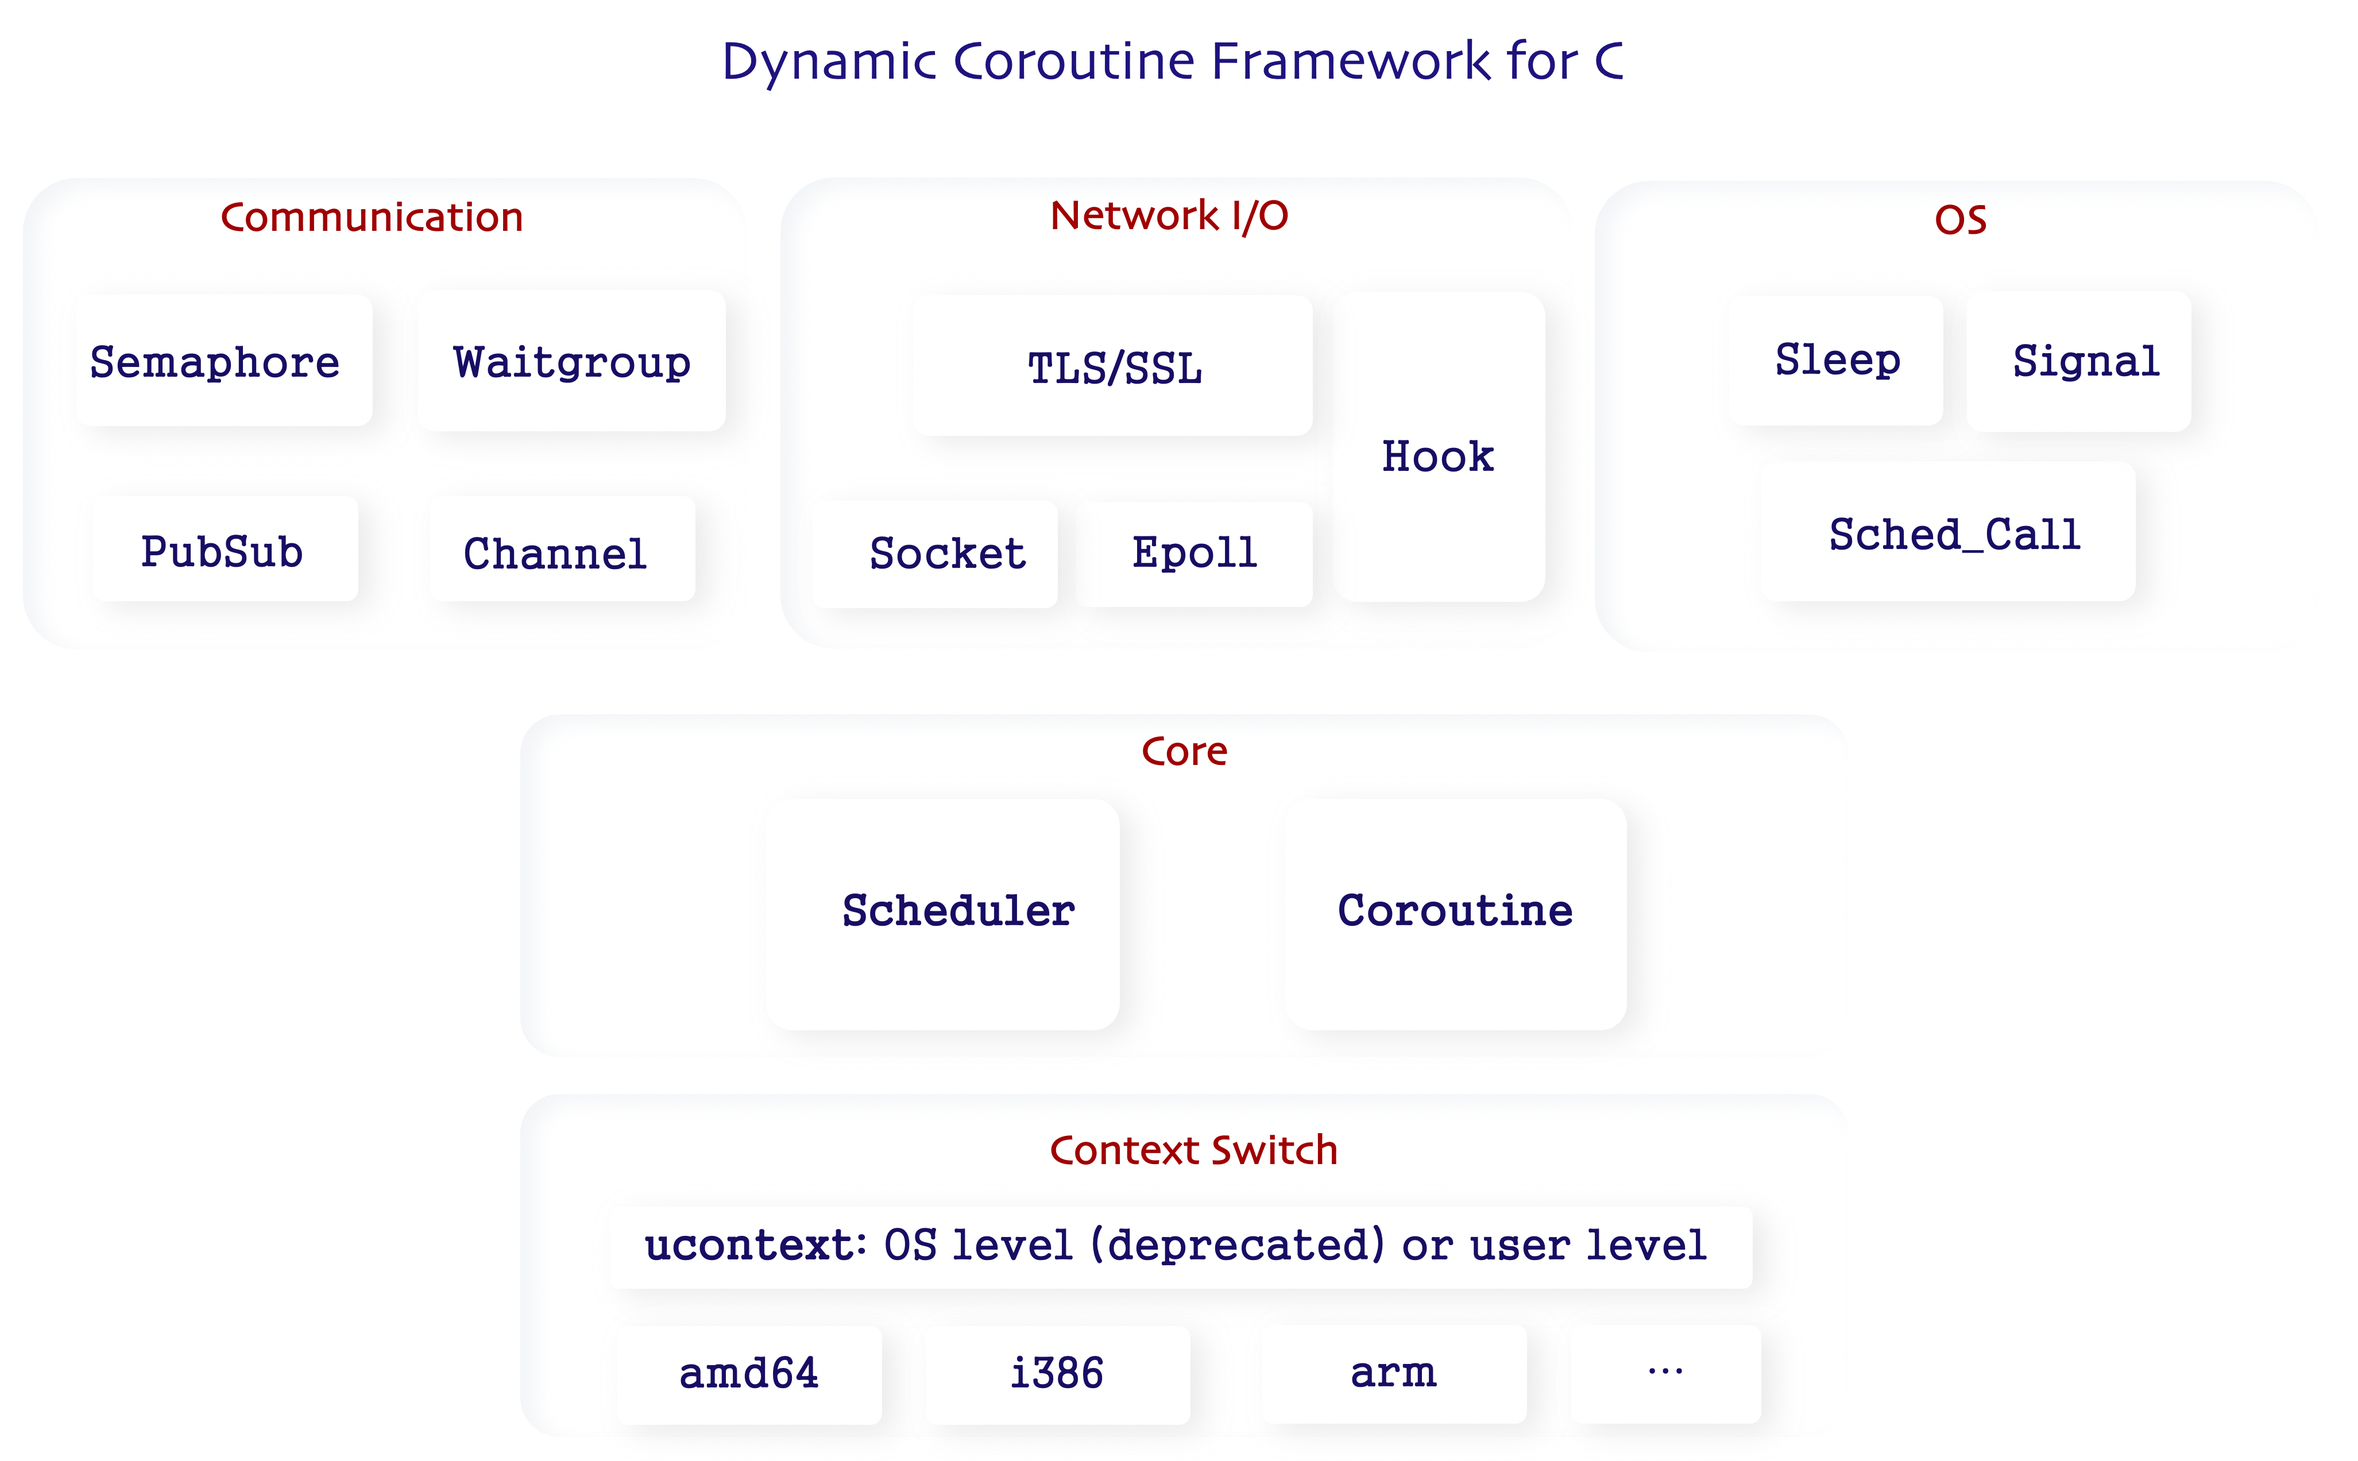
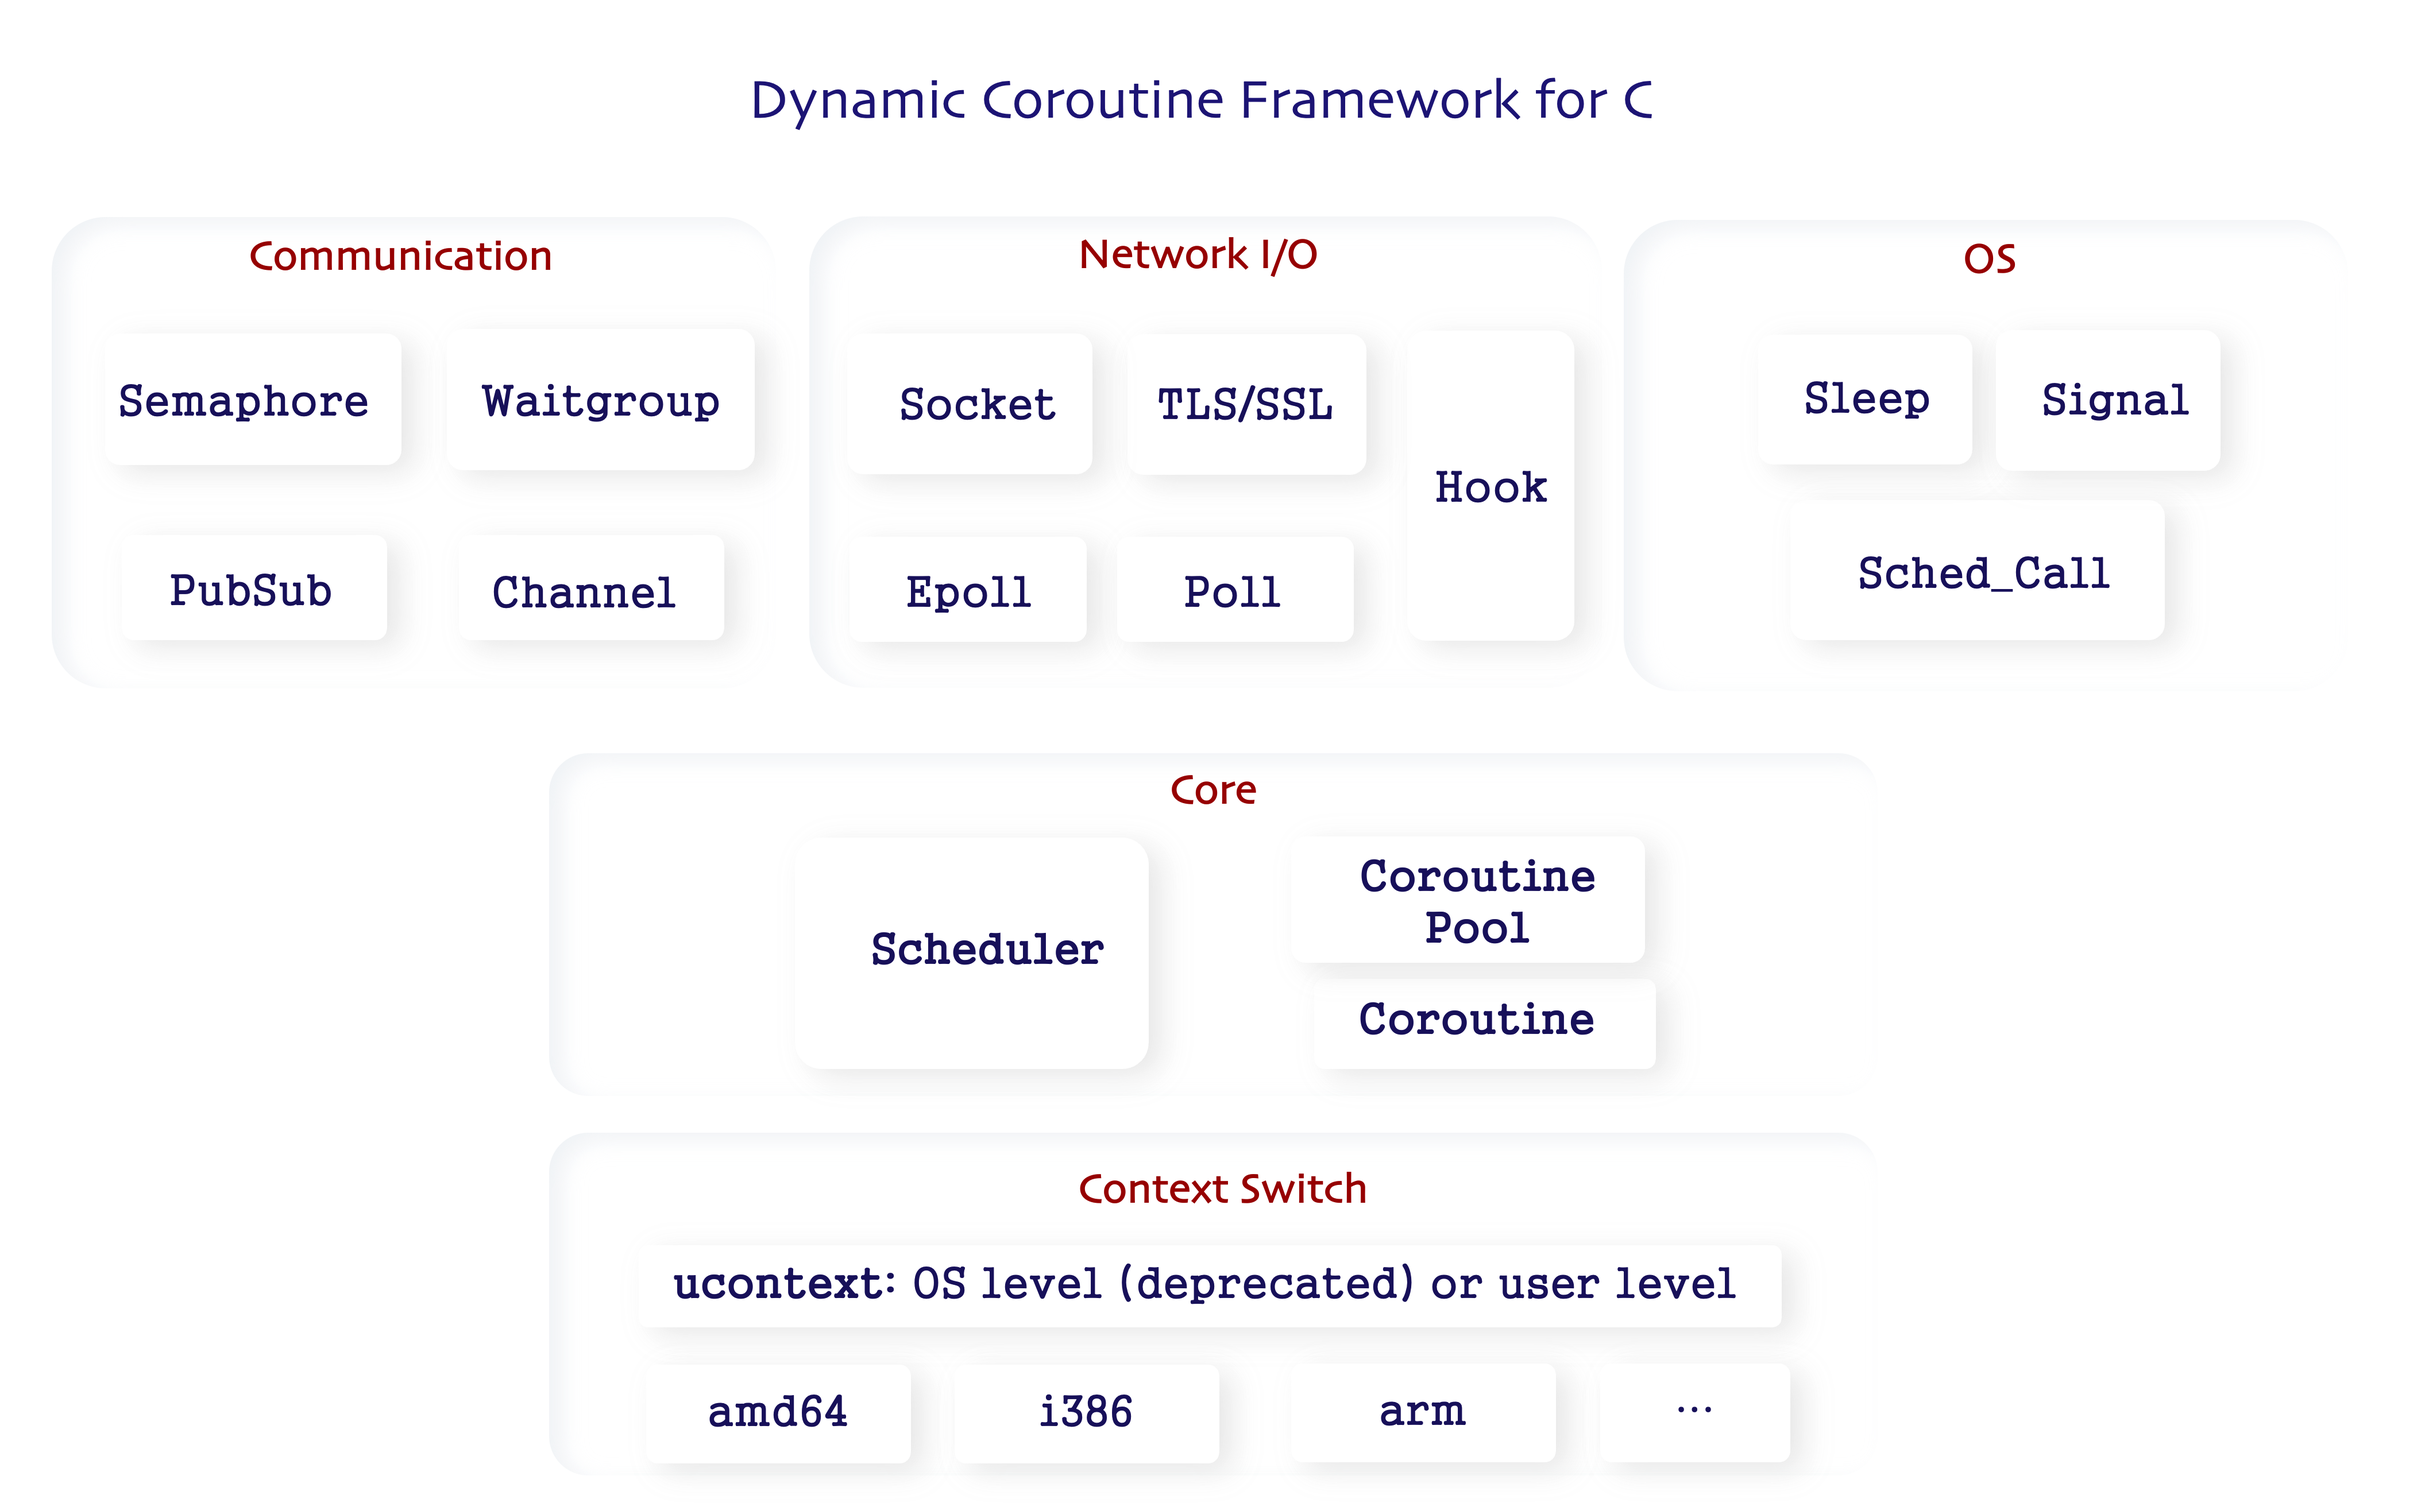
update readme & arch figure

diff --git a/src/dyco_coroutine.h b/src/dyco_coroutine.h
@@ -1,6 +1,6 @@
 #ifndef __COROUTINE_H__
 #define __COROUTINE_H__
-#define DYCO_VERSION		"v1.0.0"
+#define DYCO_VERSION		"v1.1.0"
 
 // ------ 1. Included Headers
 #define _GNU_SOURCE
@@ -19,8 +19,6 @@
 #include <pthread.h>
 #include <signal.h>
 
-// #include <ucontext.h>
-
 #include <sys/time.h>
 #include <sys/poll.h>
 #include <sys/epoll.h>
@@ -29,10 +27,10 @@
 #include <sys/eventfd.h>
 #include <sys/socket.h>
 
+#include "dyco_ucontext.h"
 #include "sys_queue.h"
 #include "sys_tree.h"
 #include "dyco_htable.h"
-#include "dyco_ucontext.h"
 
 // ------ 2. User Configurations
 #define		COROUTINE_HOOK

diff --git a/README.md b/README.md
@@ -15,19 +15,20 @@ With this framework, programers can achieve asynchronous I/O performance by prog
 Features of dyco-coroutine:
 1. Fully automated coroutine scheduling.
 2. Either shared or separate stacks can be set for coroutines.
-3. Socket/epoll hooks to automatically change the behavior of the socket/epoll API.
-4. Wait signal events. Especially waitchild, which is works well with `fork()+exec()`.
-5. Allow epoll inside each coroutine without blocking the scheduler.
-6. Half duplex channel and Publish-Subcribe channel for coroutine communication.
-7. Semaphore and Waitgroup for coroutine synchronization.
-8. TLS/SSL non-block concurrent server support.
-9. Scheduler and be stopped by any coroutine, and continue running in main process.
-10. Multi-thread supported.
+3. Coroutines pool for better performance.
+4. Socket/epoll hooks to automatically change the behavior of the socket/epoll API.
+5. Wait signal events. Especially waitchild, which is works well with `fork()+exec()`.
+6. Allow epoll inside each coroutine without blocking the scheduler.
+7. Half duplex channel and Publish-Subcribe channel for coroutine communication.
+8. Semaphore and Waitgroup for coroutine synchronization.
+9. TLS/SSL non-block concurrent server support.
+10. Scheduler and be stopped by any coroutine, and continue running in main process.
+11. Multi-thread supported.
 
 ![DYCOARCH](./img/arch.png)
 
 There are still some future works:
-1. Support different platforms. This part can be referred to `jamwt/libtask` and `heiher/hev-task-system`.
+1. Better cross-platform support. Currently the cross-platform design is derive from `jamwt/libtask`. But only Linux OS is supported. Future work can be referred to `heiher/hev-task-system` and `tboox/tbox`.
 2. Discover more feature requests and bugs by getting more people to use them.
 3. Performance optimization. Using ucontext predestines the framework to not be the best at switching performance. But there is still room for optimization.
 4. Simpler build solution. Don't make things more complicated.
@@ -400,4 +401,4 @@ int dyco_SSL_write(SSL *ssl, const void *buf, int num);
 There are 3 mainstream ways to implement coroutine switch:
 - Assembly Instructions. This is faster than other ways, but some code should be written in assembly language for each platform.
 - `setjmp()`/`longjmp()`. They are faster than ucontext. But I personally think it is the most inappropriate method of implementing coroutine switch. `setjmp()`/`longjmp()` will loss the stack. To avoid this, you have to set stack pointer in the env_buf structure. This structure is totally different in each platform, so why not use assembly instructions?
-- ucontext. This method consists of 4 interfaces which are platform-independent, so the coroutine switch implementation code with ucontext is quite elegant. Unfortunately, **ucontext has been removed from POSIX**, because **the use of function declarators with empty parentheses (not prototype-format parameter type declarators) is an obsolescent feature**. It is still available in Linux, and won't bring problems for dyco. So I choose this method. For supporting more platforms, we can build ucontext in userspace, which can be referred to `jamwt/libtask`.
+- ucontext. This method consists of 4 interfaces which are platform-independent, so the coroutine switch implementation code with ucontext is quite elegant. Unfortunately, **ucontext has been removed from POSIX**, because **the use of function declarators with empty parentheses (not prototype-format parameter type declarators) is an obsolescent feature**. It is still available in Linux, and won't bring problems for dyco. So I choose this method. For supporting more platforms, dyco build ucontext in userspace, and this part is referred to `jamwt/libtask`.

diff --git a/README_ZH.md b/README_ZH.md
@@ -15,19 +15,20 @@
 `dyco-coroutine`的特性:
 1. 全自动的协程调度。
 2. 支持为协程设定独立的运行栈，或者设定采用共享栈。
-3. 支持Socket/epoll钩子，可以改变一些上层网络API的行为。
-4. 支持等待信号事件。尤其是等待子进程，适合跟`fork()+exec()`配合使用。
-5. 支持在协程内部使用epoll，而不阻塞整个调度器循环。
-6. 提供了半双工信道和发布订阅信道，支持协程通信。
-7. 提供了信号量和等待组功能，支持实现协程同步。
-8. 支持非阻塞的TLS/SSL并发服务。
-9. 调度器及其管理的协程可以被暂停，然后在适当的时机恢复。
-10. 支持多线程。
+3. 支持协程池以达到更高的效率。
+4. 支持Socket/epoll钩子，可以改变一些上层网络API的行为。
+5. 支持等待信号事件。尤其是等待子进程，适合跟`fork()+exec()`配合使用。
+6. 支持在协程内部使用epoll，而不阻塞整个调度器循环。
+7. 提供了半双工信道和发布订阅信道，支持协程通信。
+8. 提供了信号量和等待组功能，支持实现协程同步。
+9. 支持非阻塞的TLS/SSL并发服务。
+10. 调度器及其管理的协程可以被暂停，然后在适当的时机恢复。
+11. 支持多线程。
 
 ![DYCOARCH](./img/arch.png)
 
 预计未来还有一些工作方向:
-1. 支持更多不同的平台。这部分实现可以参考`jamwt/libtask`。
+1. 更好的跨平台支持。目前的跨平台设计参考自`jamwt/libtask`。但是只支持Linux系统。未来的工作可以参考`heiher/hev-task-system`和`tboox/tbox`。
 2. 发掘更多的特性需求，并不断完善。寻找Bug并修复。
 3. 性能优化。使用ucontext作为底层切换策略，意味着这个框架在协程切换性能上很难做到顶尖的表现（相比于直接用汇编）。但是依然可能存在其他的优化空间。
 4. 更丰富的构建方式。减少构建的复杂性，而不是增加。
@@ -402,4 +403,4 @@ int dyco_SSL_write(SSL *ssl, const void *buf, int num);
 有3种实现协程切换的主流方案：
 - 汇编指令。它比其他两种方案快，但是对于每个平台都要写一些不同的汇编指令代码。
 - `setjmp()`/`longjmp()`。它比ucontext快。但是我个人认为这是最不合适的协程切换实现方案。`setjmp()`/`longjmp()`会导致栈丢失，为了避免这种情况，你不得不去设置env_buf的栈指针。这个数据结构在不同平台上截然不同，那为什么不直接用汇编？
-- ucontext。ucontext包含了4个平台无关的接口，因此协程切换代码会相对优雅。不幸的是**ucontext已经被移除出POSIX，因为使用带有空括号的函数声明器（而不是原型格式的参数类型声明器）是一个过时的特性**。ucontext在Linux目前还是可以使用的，而且不会为dyco带来问题。因此我选择了这个方案。如果要支持更多的平台，可以考虑在用户层构建uncontext。这部分可以参考`jamwt/libtask`的实现。
+- ucontext。ucontext包含了4个平台无关的接口，因此协程切换代码会相对优雅。不幸的是**ucontext已经被移除出POSIX，因为使用带有空括号的函数声明器（而不是原型格式的参数类型声明器）是一个过时的特性**。ucontext在Linux目前还是可以使用的，而且不会为dyco带来问题。因此我选择了这个方案。为了支持更多的平台，dyco在用户层构建uncontext，这部分参考了`jamwt/libtask`的实现。
